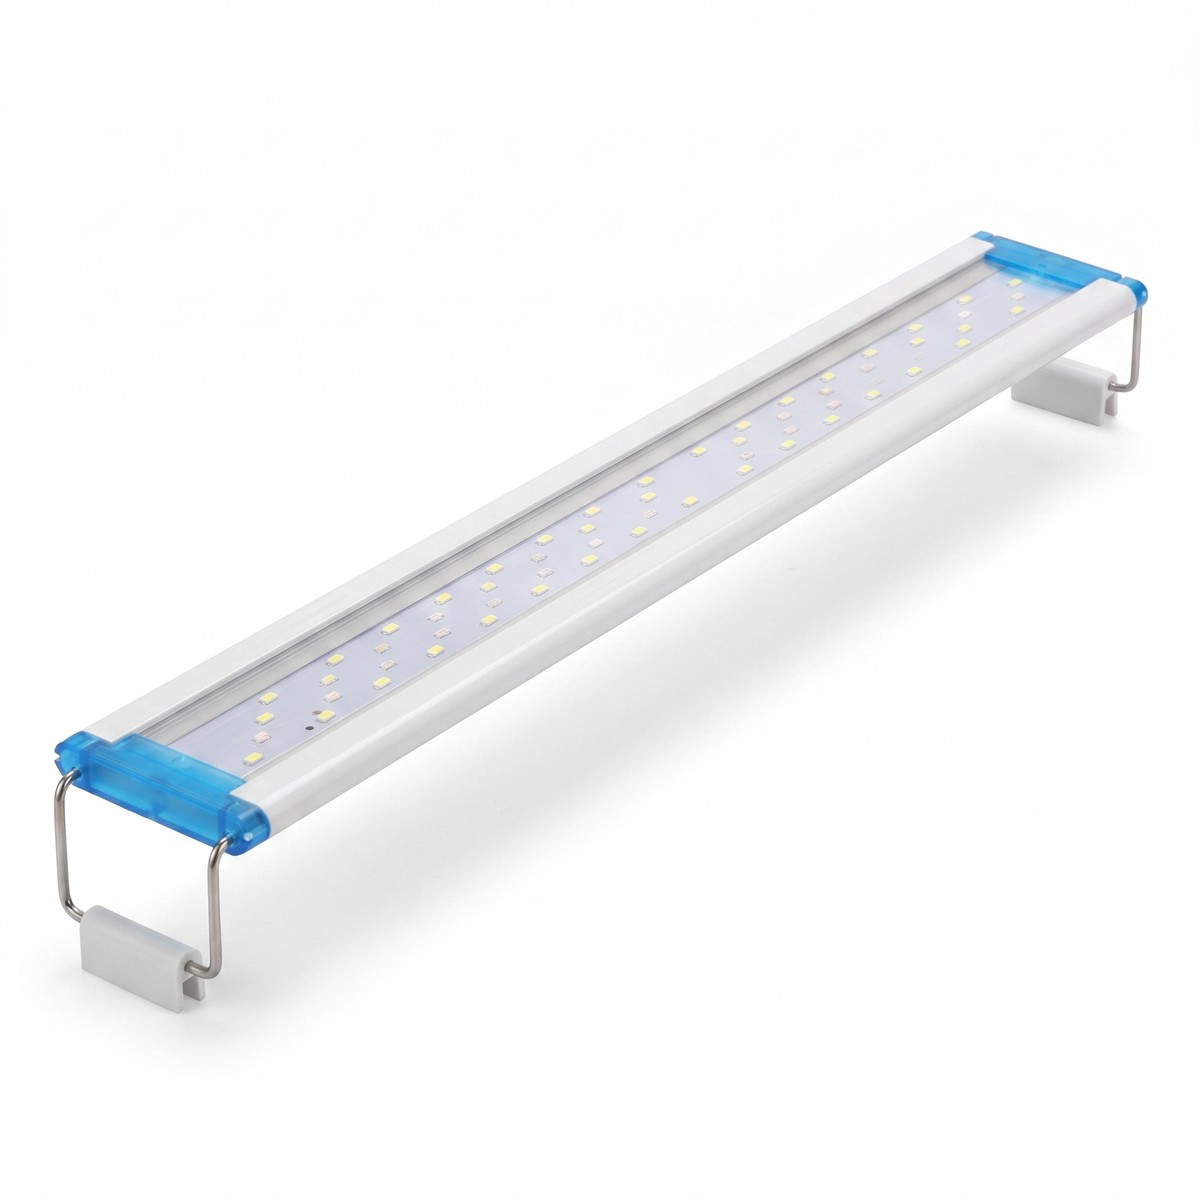
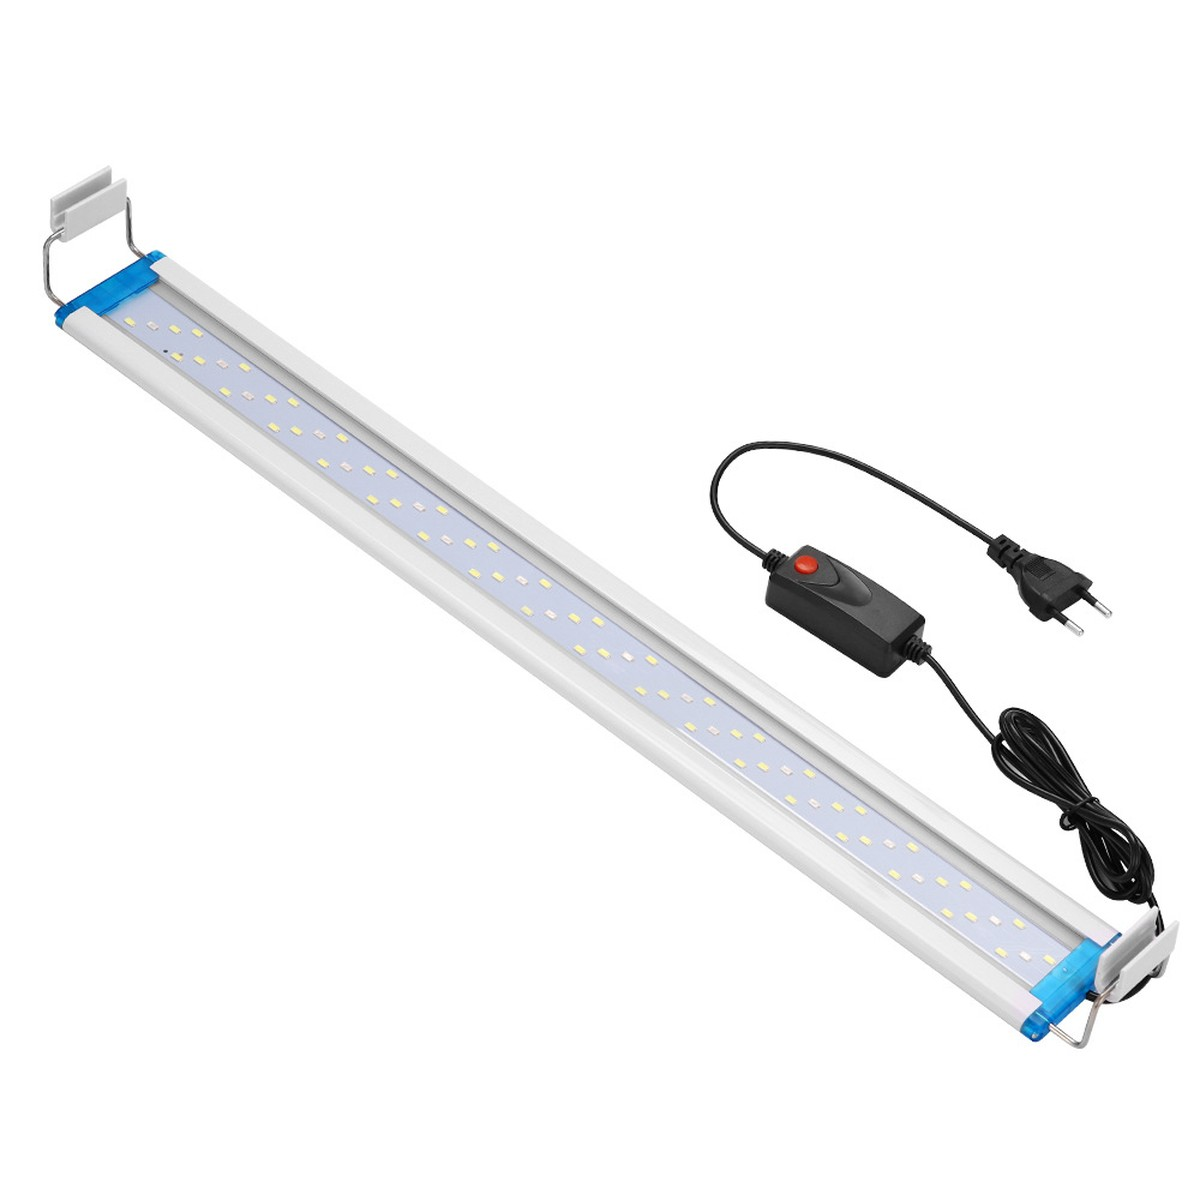
Replace AI imagery with real supplier photos; correct two spec errors
All AI-generated product imagery is gone. Every photo on these listings is now
a real supplier photograph, with English spec panels rendered from OCR of the
manufacturer's Chinese panels rather than invented.

Aurora 48 — six real photos replacing two AI renders plus drawn panels. The
supplier's own English-labelled panels cover the model table, the per-variant
spec, the light modes and the bracket detail, so nothing needed illustrating.

Fit range corrected 48-58cm -> 48-61cm. The manufacturer's model table reads
"48+13CM" and the sibling variant panel spells it out as "Tank Length: 48-61CM".
The earlier 48-58 came from my own conservative reading of a "Retractable 10CM"
install graphic, so the listing was understating the bracket by 3cm.

Aurora Smart 58 -> 78. Re-anchoring this to the 58cm model was wrong: only five
of the supplier's ten variant panels were cached at the time, so the range
appeared to stop at 58cm. It runs to 148cm. The 78cm model is the one matching
the original 30in listing, and its panel reads 34W / 4200Lm / 90Ra / IP44, with
brackets for tanks 70-80cm and 80-95cm. Specs, copy and FAQs now reflect that,
and the IP68 claim is called out as corrected.

The tank ranges are also relabelled from "tank height" to "tank length", which
is what 适用鱼缸 means on these panels — a light bar is sized to a tank's length.

Redirects added for both the original 30in handle and the short-lived -58 one.

Changed region(s): [[0.0308, 0.1233, 0.9867, 0.8942]]

diff --git a/next.config.ts b/next.config.ts
@@ -16,7 +16,14 @@ export default {
       },
       {
         source: "/product/aurora-24-7-planted-tank-led-30in",
-        destination: "/product/aurora-smart-58-rgb-led",
+        destination: "/product/aurora-smart-78-rgb-led",
+        permanent: true,
+      },
+      {
+        // Briefly published as -58 while only half the supplier's spec panels
+        // were cached; the product is the 78cm model.
+        source: "/product/aurora-smart-58-rgb-led",
+        destination: "/product/aurora-smart-78-rgb-led",
         permanent: true,
       },
       {
